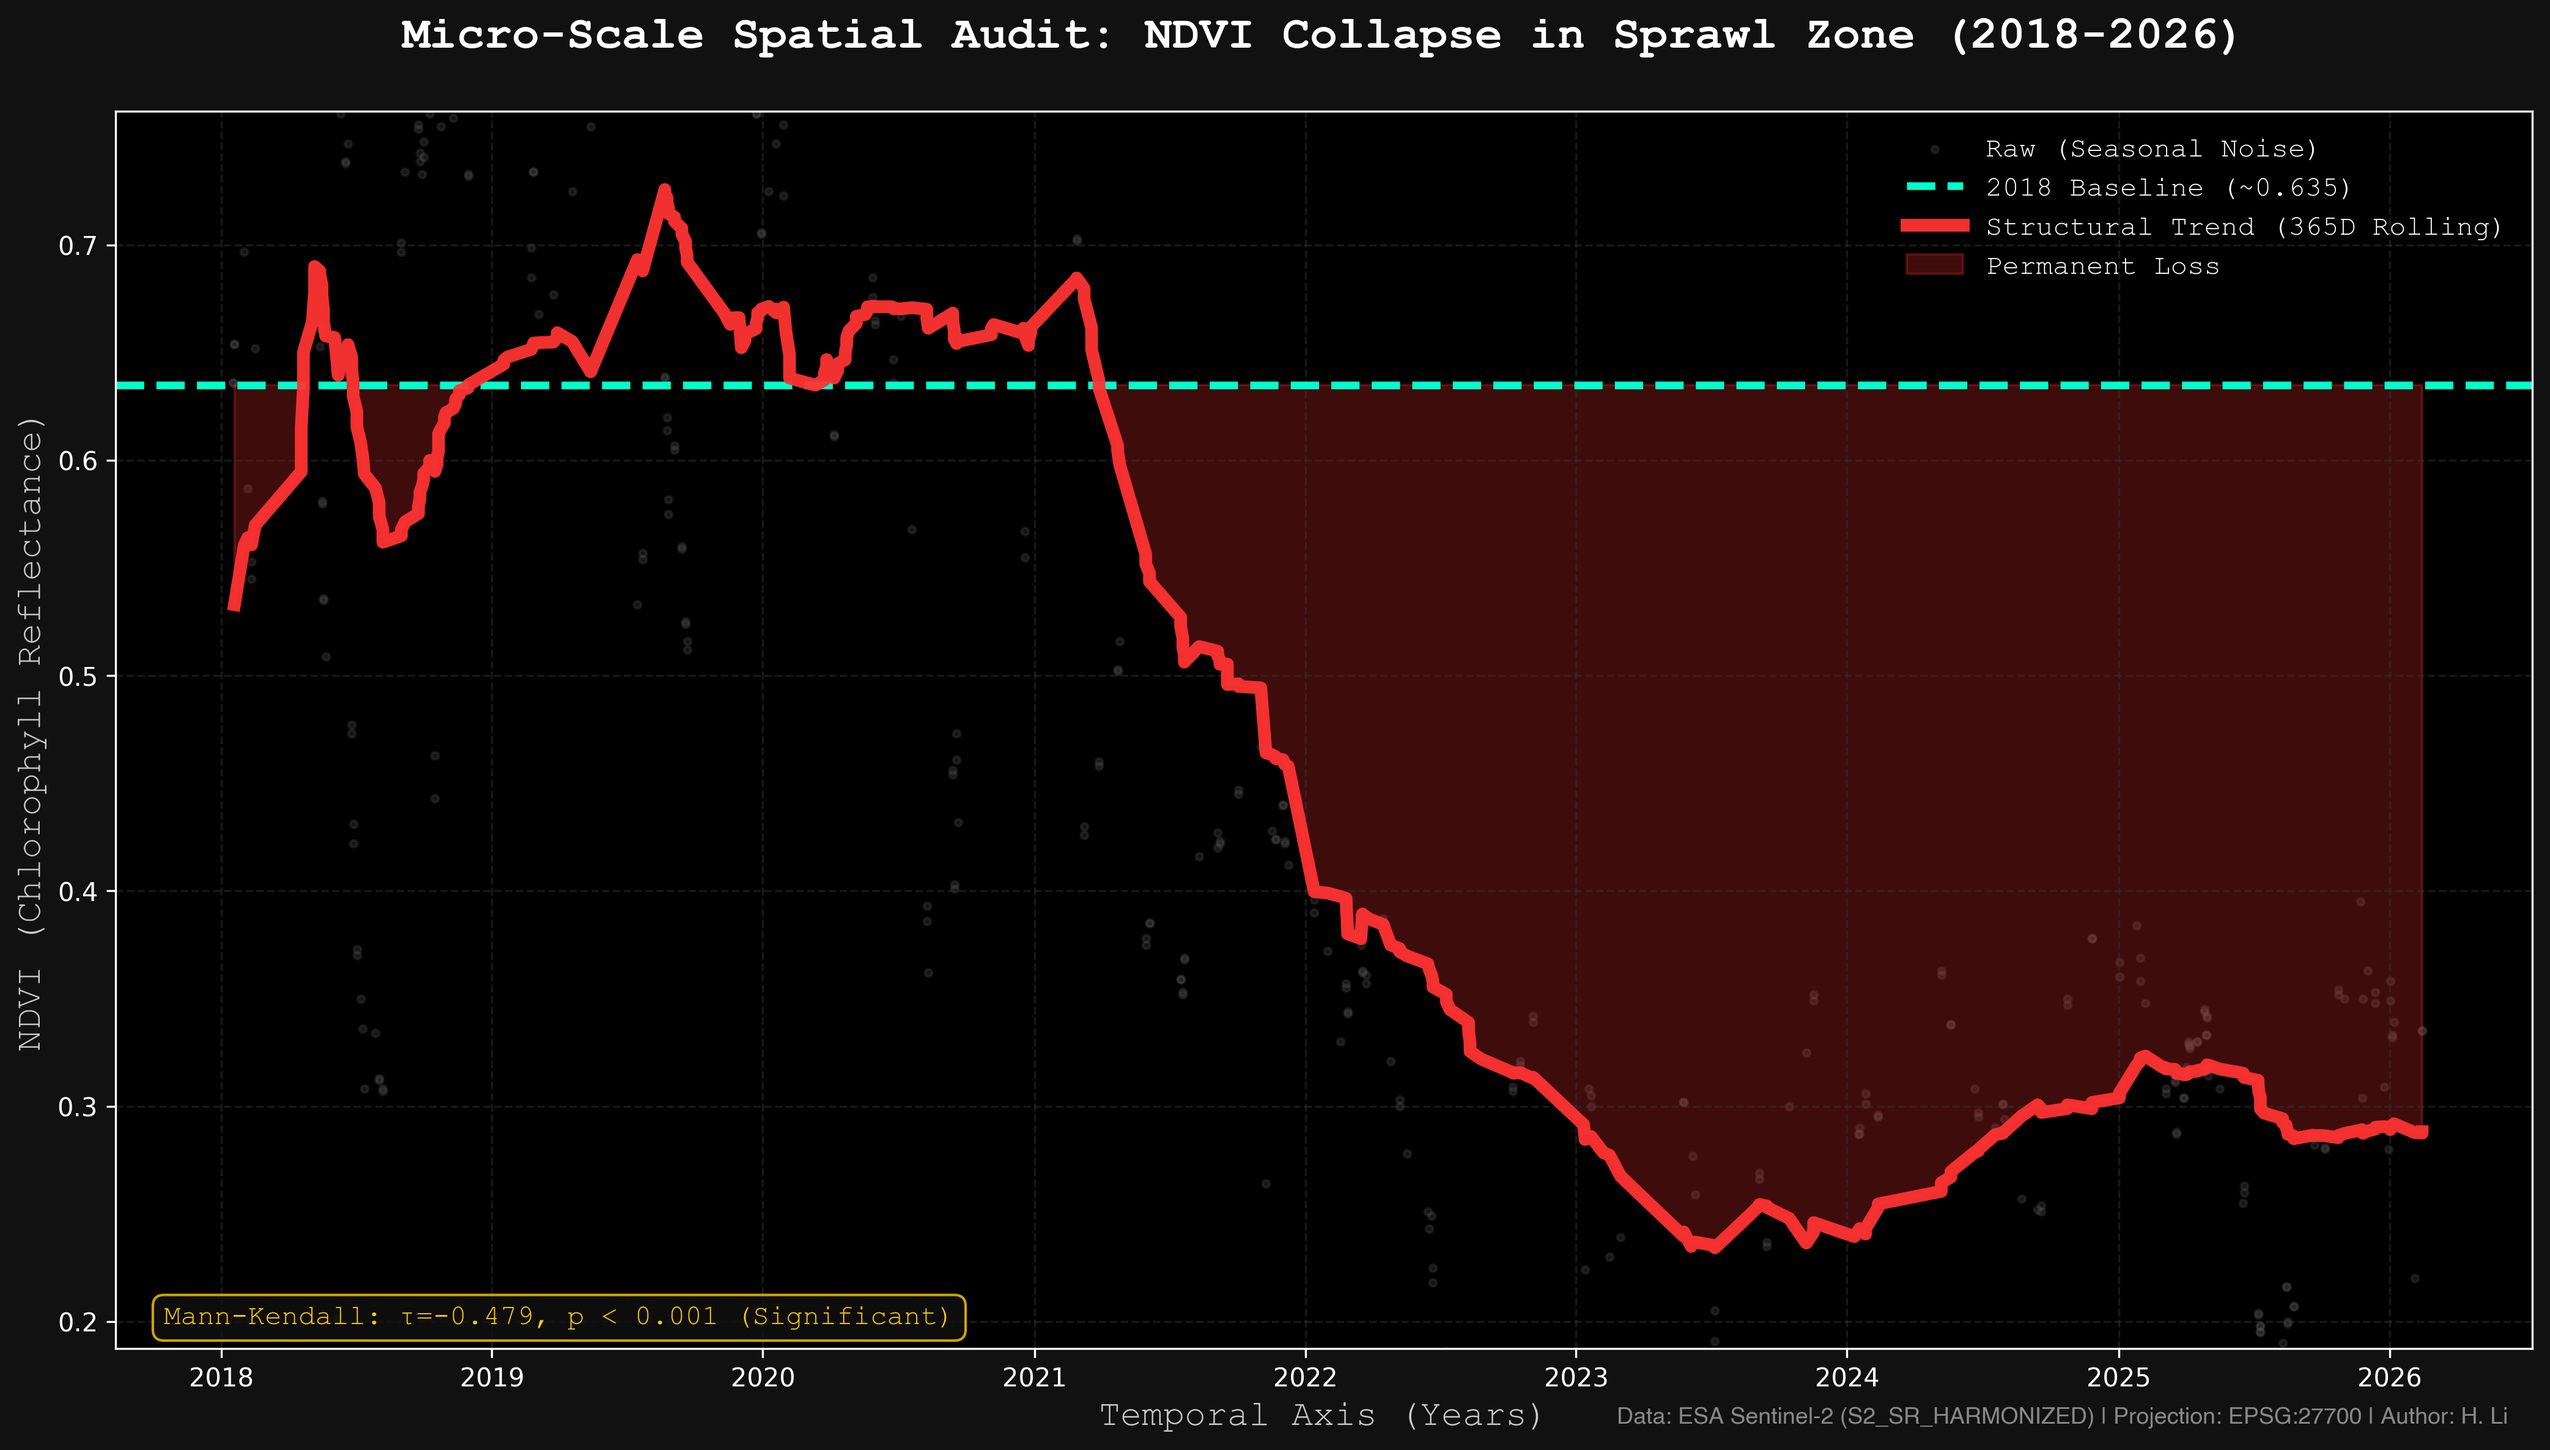
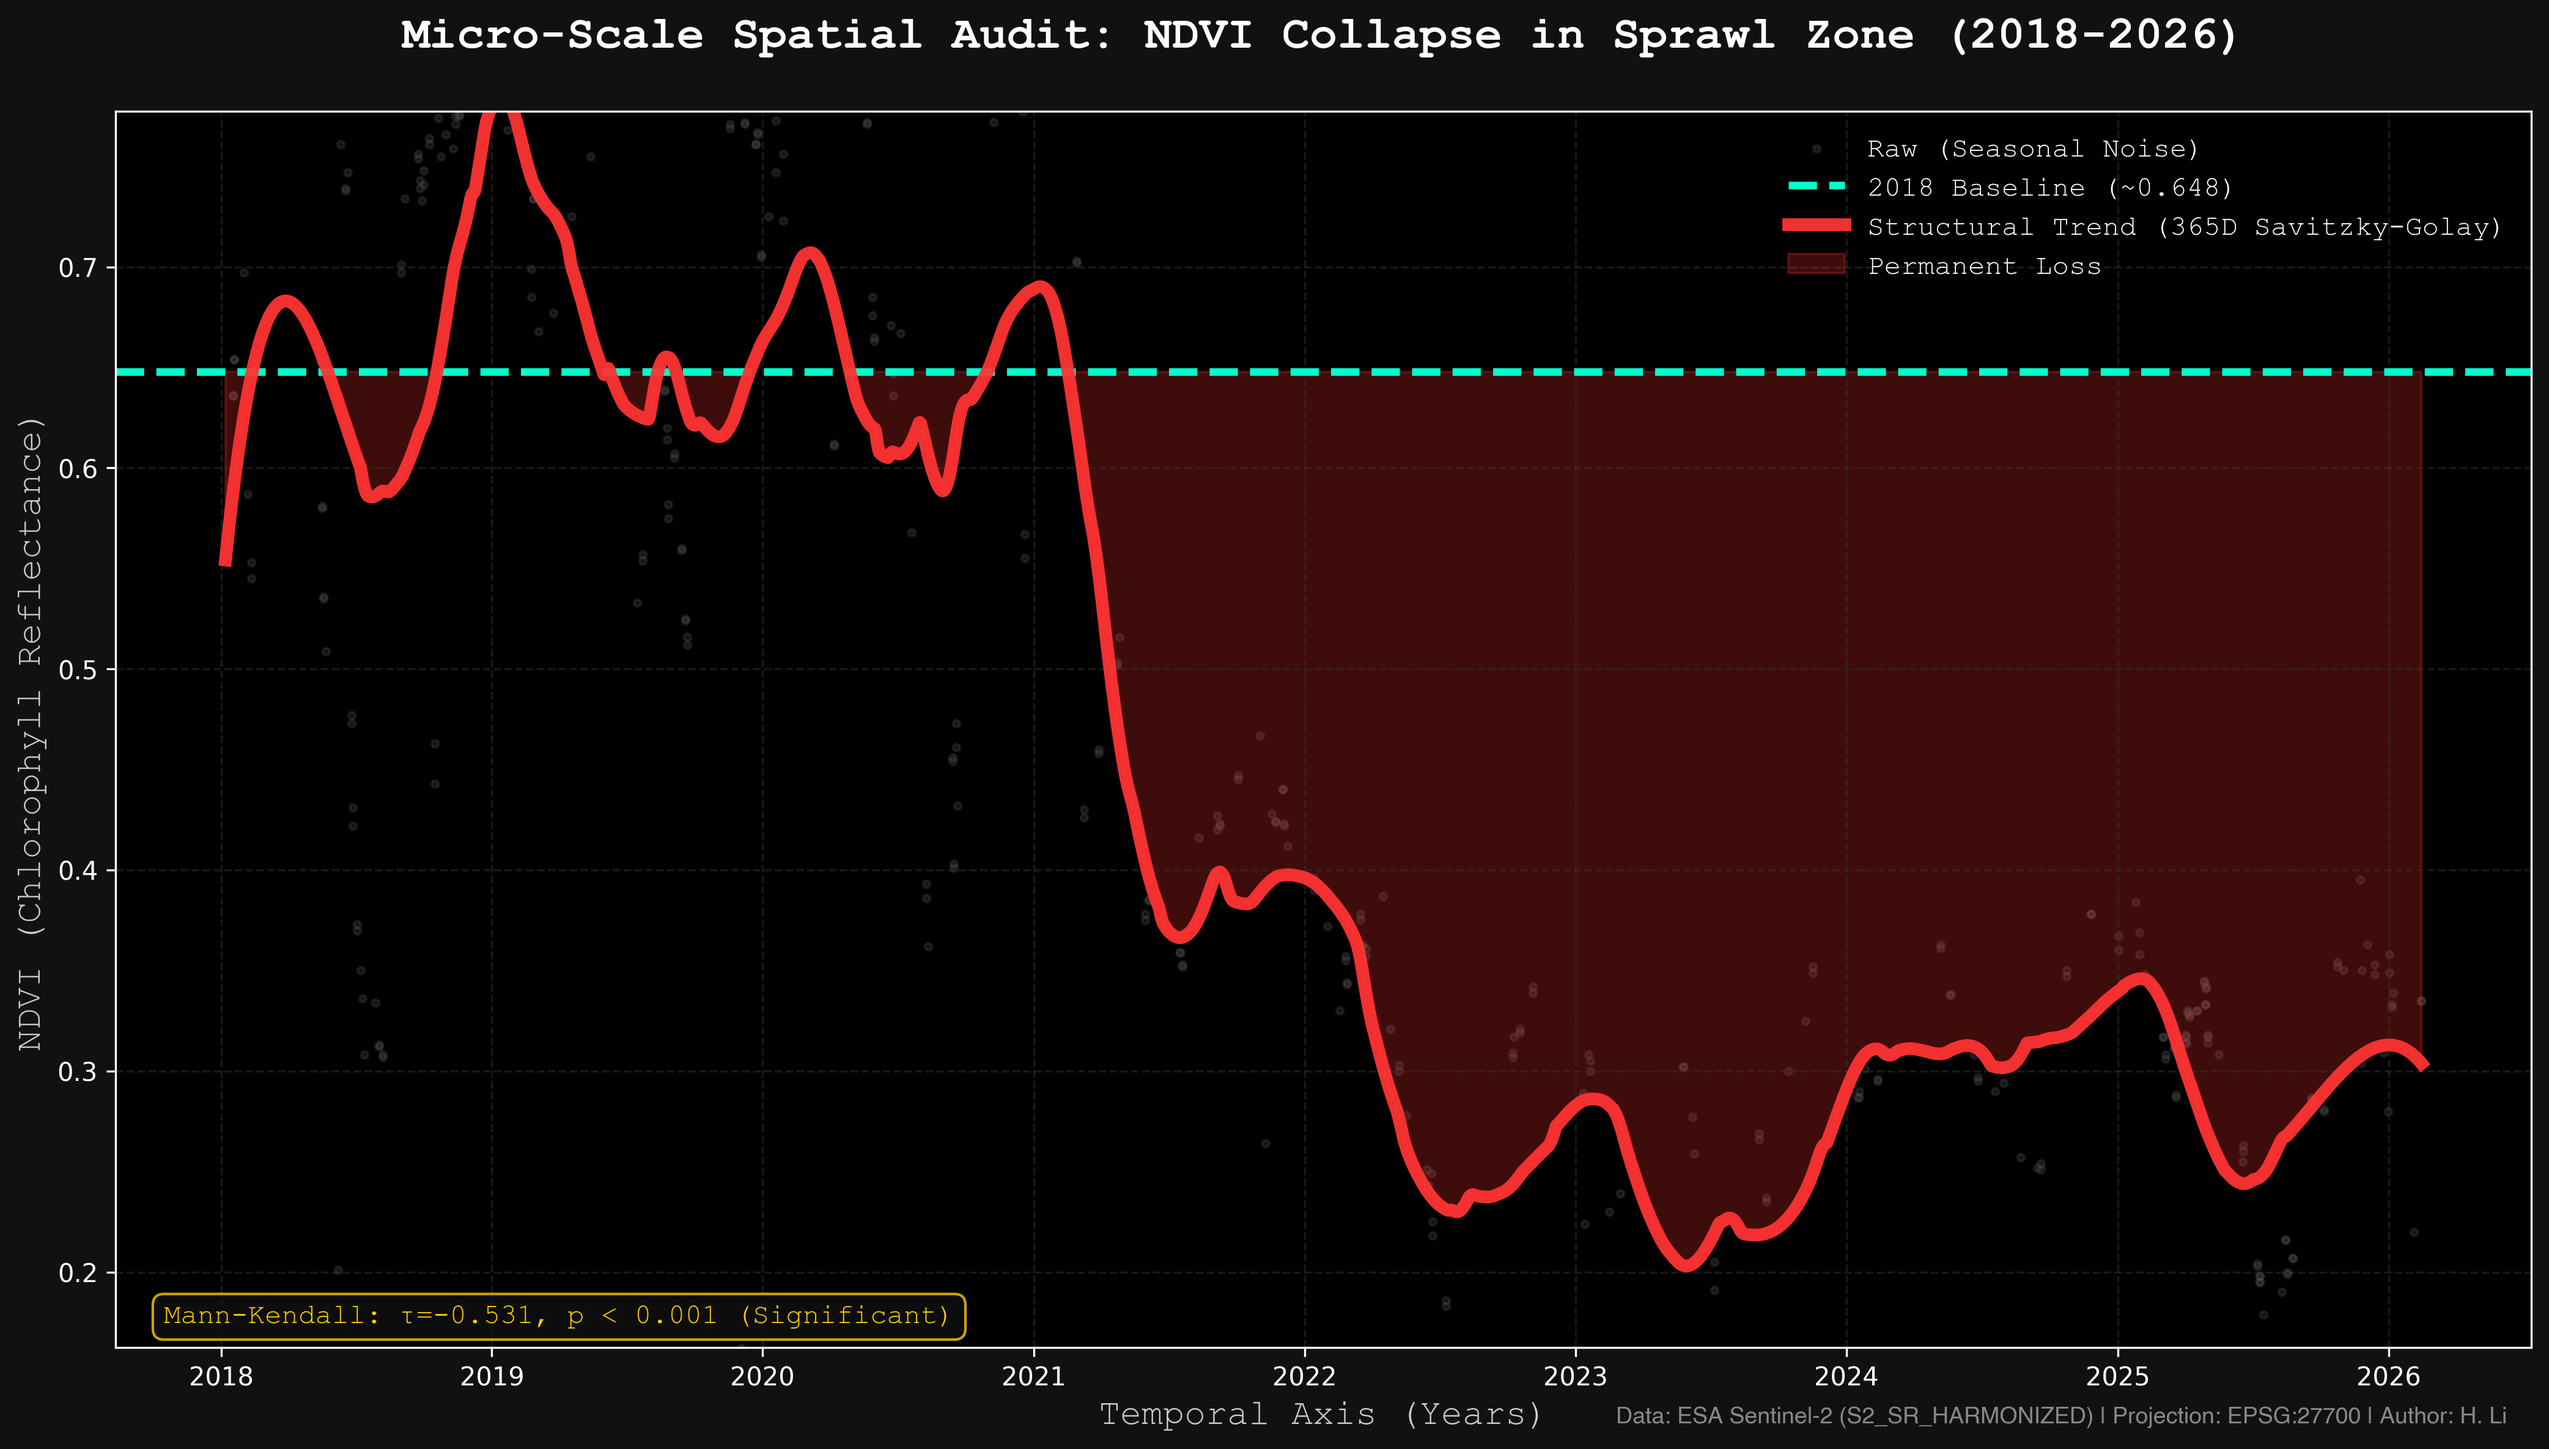
feat(analysis): upgrade statistical models for NDVI and LST timeseries - NDVI: Replace rolling mean with Savitzky-Golay signal filter (preserves phenological peak amplitude) - LST: Implement linear regression with 95% Confidence Intervals (scipy.stats) - Add scipy to dependencies

diff --git a/scripts/05_plot_ndvi_chart.py b/scripts/05_plot_ndvi_chart.py
@@ -10,6 +10,7 @@ import matplotlib.dates as mdates
 import numpy as np
 import warnings
 import pymannkendall as mk
+from scipy.signal import savgol_filter
 
 # Suppress interactive mode warnings for CLI execution
 warnings.filterwarnings("ignore", category=UserWarning, module="matplotlib.figure")
@@ -24,21 +25,32 @@ def plot_ndvi_collapse(csv_path, output_path):
         print(f"[ERROR] Cannot find {csv_path}")
         return
 
+    # ---------------------------------------------------------
+    # 数据预处理与高级信号滤波 (Savitzky-Golay)
+    # ---------------------------------------------------------
     df['system:time_start'] = pd.to_datetime(df['system:time_start'])
-    df = df.dropna(subset=['NDVI']).sort_values('system:time_start')
-    df.set_index('system:time_start', inplace=True)
+    df = df.sort_values('system:time_start').set_index('system:time_start')
+    
+    # 将离散的卫星过境数据重采样为连续的每日时间序列，并线性插值填补云遮挡导致的缺失值
+    df_daily = df[['NDVI']].resample('D').mean().interpolate(method='time')
+    
+    # 丢弃头尾全空的无效数据段
+    df_daily = df_daily.dropna()
+    
+    # Savitzky-Golay 滤波 (相比于普通 Rolling Mean，更精确保留植被生长的季节性波峰波谷特征)
+    # Window size 365 days, Polynomial order 3
+    df_daily['NDVI_SG'] = savgol_filter(df_daily['NDVI'], window_length=365, polyorder=3)
 
-    # 365D 滚动均线 + 2018 基线
-    df['Structural_Trend'] = df['NDVI'].rolling('365D', min_periods=5).mean()
-    baseline_2018 = df.loc['2018', 'NDVI'].mean()
+    # 2018 基线 (使用原始NDVI数据计算)
+    baseline_2018 = df_daily.loc['2018', 'NDVI'].mean()
 
-    # Mann-Kendall 趋势检验
-    mk_result = mk.original_test(df['NDVI'].dropna())
+    # Mann-Kendall 趋势检验 (对平滑后的数据进行检验)
+    mk_result = mk.original_test(df_daily['NDVI_SG'].dropna())
     print(f"Mann-Kendall test: trend={mk_result.trend}, p={mk_result.p:.6f}, "
           f"tau={mk_result.Tau:.4f}, slope={mk_result.slope:.6f}/obs")
 
     # 动态 Y 轴范围
-    ndvi_min = df['Structural_Trend'].min()
+    ndvi_min = df_daily['NDVI_SG'].min()
     y_low = min(ndvi_min * 0.8, baseline_2018 * 0.6)
     y_high = baseline_2018 * 1.2
 
@@ -48,10 +60,10 @@ def plot_ndvi_collapse(csv_path, output_path):
     ax.scatter(df.index, df['NDVI'], color='#555555', alpha=0.25, s=8, label='Raw (Seasonal Noise)')
     ax.axhline(y=baseline_2018, color='#00FFCC', linestyle='--', linewidth=3, 
                label=f'2018 Baseline (~{baseline_2018:.3f})')
-    ax.plot(df.index, df['Structural_Trend'], color='#FF3333', linewidth=5, 
-            label='Structural Trend (365D Rolling)', alpha=0.95)
-    ax.fill_between(df.index, df['Structural_Trend'], baseline_2018, 
-                    where=(df['Structural_Trend'] < baseline_2018), 
+    ax.plot(df_daily.index, df_daily['NDVI_SG'], color='#FF3333', linewidth=5, 
+            label='Structural Trend (365D Savitzky-Golay)', alpha=0.95)
+    ax.fill_between(df_daily.index, df_daily['NDVI_SG'], baseline_2018, 
+                    where=(df_daily['NDVI_SG'] < baseline_2018), 
                     color='#FF3333', alpha=0.25, interpolate=True, label='Permanent Loss')
 
     # Mann-Kendall 结果标注

diff --git a/scripts/07_plot_thermal_chart.py b/scripts/07_plot_thermal_chart.py
@@ -10,6 +10,7 @@ import matplotlib.pyplot as plt
 import matplotlib.dates as mdates
 import numpy as np
 import warnings
+from scipy import stats
 
 # Suppress interactive mode warnings for CLI execution
 warnings.filterwarnings("ignore", category=UserWarning, module="matplotlib.figure")
@@ -29,16 +30,34 @@ def render_thermodynamic_chart(csv_path, output_image_path):
 
     print(f"Data points: {len(df)}")
 
+    # ---------------------------------------------------------
+    # 线性回归与 95% 置信区间 (95% CI)
+    # ---------------------------------------------------------
     # 365D 滚动均线（消除季节性噪音）
     df['Rolling_Mean'] = df['LST_Celsius'].rolling('365D', min_periods=1).mean()
 
-    # 线性回归趋势线 (y = mx + c)
-    x_num = mdates.date2num(df.index)
-    z = np.polyfit(x_num, df['LST_Celsius'].values, 1)
-    p = np.poly1d(z)
-    df['Trendline'] = p(x_num)
+    # ---------------------------------------------------------
+    # 线性回归与 95% 置信区间 (95% CI)
+    # ---------------------------------------------------------
+    x_ordinal = df.index.map(pd.Timestamp.toordinal).values
+    y = df['LST_Celsius'].values
+    
+    # 线性拟合 (1阶)
+    slope, intercept, r_value, p_value, std_err = stats.linregress(x_ordinal, y)
+    y_pred = intercept + slope * x_ordinal
+    
+    # 计算 95% 置信区间 (自由度 = n - 2)
+    t_val = stats.t.ppf(0.975, len(x_ordinal) - 2)
+    residuals = y - y_pred
+    mse = np.sum(residuals**2) / (len(x_ordinal) - 2)
+    x_mean = np.mean(x_ordinal)
+    ssx = np.sum((x_ordinal - x_mean)**2)
+    se_fit = np.sqrt(mse * (1/len(x_ordinal) + (x_ordinal - x_mean)**2 / ssx))
+    
+    y_ci_upper = y_pred + t_val * se_fit
+    y_ci_lower = y_pred - t_val * se_fit
 
-    net_increase = df['Trendline'].iloc[-1] - df['Trendline'].iloc[0]
+    net_increase = y_pred[-1] - y_pred[0]
     print(f"Net temperature trend: {'+' if net_increase > 0 else ''}{net_increase:.2f} °C")
 
     # 绘图
@@ -49,8 +68,12 @@ def render_thermodynamic_chart(csv_path, output_image_path):
                label='Raw LST Observations (Cloud-masked)')
     ax.plot(df.index, df['Rolling_Mean'], color='#FF8C00', linewidth=2.5, alpha=0.9, 
             label='365-Day Rolling Mean (Seasonal Noise Removed)')
-    ax.plot(df.index, df['Trendline'], color='#FF0000', linestyle='--', linewidth=3, 
-            label=f'Structural Trendline (Net Δ: +{net_increase:.2f}°C)')
+            
+    # 新增：合并了净增温和统计显著性的统一趋势线
+    ax.plot(df.index, y_pred, color='#FF0000', linestyle='--', linewidth=3, 
+            label=f'Structural Trendline (Net Δ: +{net_increase:.2f}°C, p = {p_value:.3e})')
+            
+    ax.fill_between(df.index, y_ci_lower, y_ci_upper, color='#FFCC00', alpha=0.2, label='95% Confidence Interval')
 
     ax.set_title('Thermodynamic Spatial Audit: Algorithmic Metabolism in the Sprawl Zone (2015-2023)', 
                  fontsize=18, fontweight='bold', color='white', pad=20, fontfamily='monospace')
